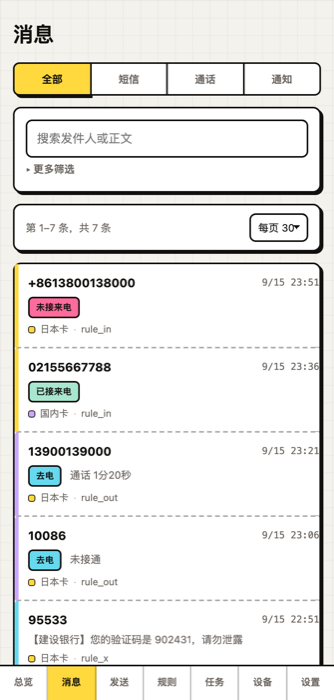
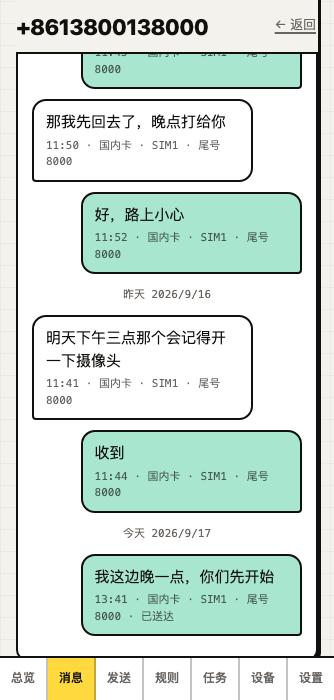
落地页配图重拍：当前界面、双卡、气泡对话
原来那套是单用户时代截的，没有会话视图、没有 SIM 徽章、通知格式也换过了，
配对那张还是废的（整页截图把粘性导航条画在了二维码上）。

六张全部重拍，演示数据用真链路造：号码和正文要经加密落库、规则要真的命中，
直接塞库拿到的是解不开的密文，界面上只会显示一片空白。所以是起一台本地网关、
连两个假 Agent 上去按协议上报事件、再走 /api/outbound 下发并回执状态机。

号码全是占位号（13800138000 这类）与公开服务号，正文全是编的；
服务器地址由 GW_BASE_URL 给成 gw.example.com，配对二维码里不会出现真域名。

消息那张改成拍**对话详情**而不是会话列表——气泡、左右分边、日期分隔、
每条带是哪张卡、发出去的带送达状态，这才是这个功能的样子，列表看不出来。

截图一律只截视口、不用 captureBeyondViewport，否则粘性导航条会被画在
视口位置而不是页面底部——上一版配对图就是这么废掉的。

Claude-Session: https://claude.ai/code/session_019NwZXc65mFh4PQGhisraNr

diff --git a/web/welcome.html b/web/welcome.html
@@ -104,10 +104,11 @@
   <p class="hint">← 左右滑动看更多 →</p>
   <div class="shots">
     <figure class="shot"><img src="/img/overview.png" alt="总览" width="334" height="700"><figcaption class="cap">总览：设备在不在线、信号几格、有没有插电</figcaption></figure>
-    <figure class="shot"><img src="/img/messages.png" alt="消息" width="334" height="700"><figcaption class="cap">消息：按号码归成对话，也能按时间线翻</figcaption></figure>
+    <figure class="shot"><img src="/img/messages.png" alt="消息" width="334" height="700"><figcaption class="cap">消息：同一个号码归成一段对话，收到的和自己发的在一条线上</figcaption></figure>
     <figure class="shot"><img src="/img/calls.png" alt="通话记录" width="334" height="700"><figcaption class="cap">通话记录：来电、去电、未接，带时长</figcaption></figure>
     <figure class="shot"><img src="/img/rules.png" alt="规则" width="334" height="700"><figcaption class="cap">规则：验证码穿透专注模式，广告只归档</figcaption></figure>
     <figure class="shot"><img src="/img/sent.png" alt="发送记录" width="334" height="700"><figcaption class="cap">发送：让那台手机替你发一条，看得到送达状态</figcaption></figure>
+    <figure class="shot"><img src="/img/pairing.png" alt="配对" width="334" height="700"><figcaption class="cap">配对：扫一次码，地址和配对码都不用手打</figcaption></figure>
   </div>
 
   <h2>五步走完</h2>
